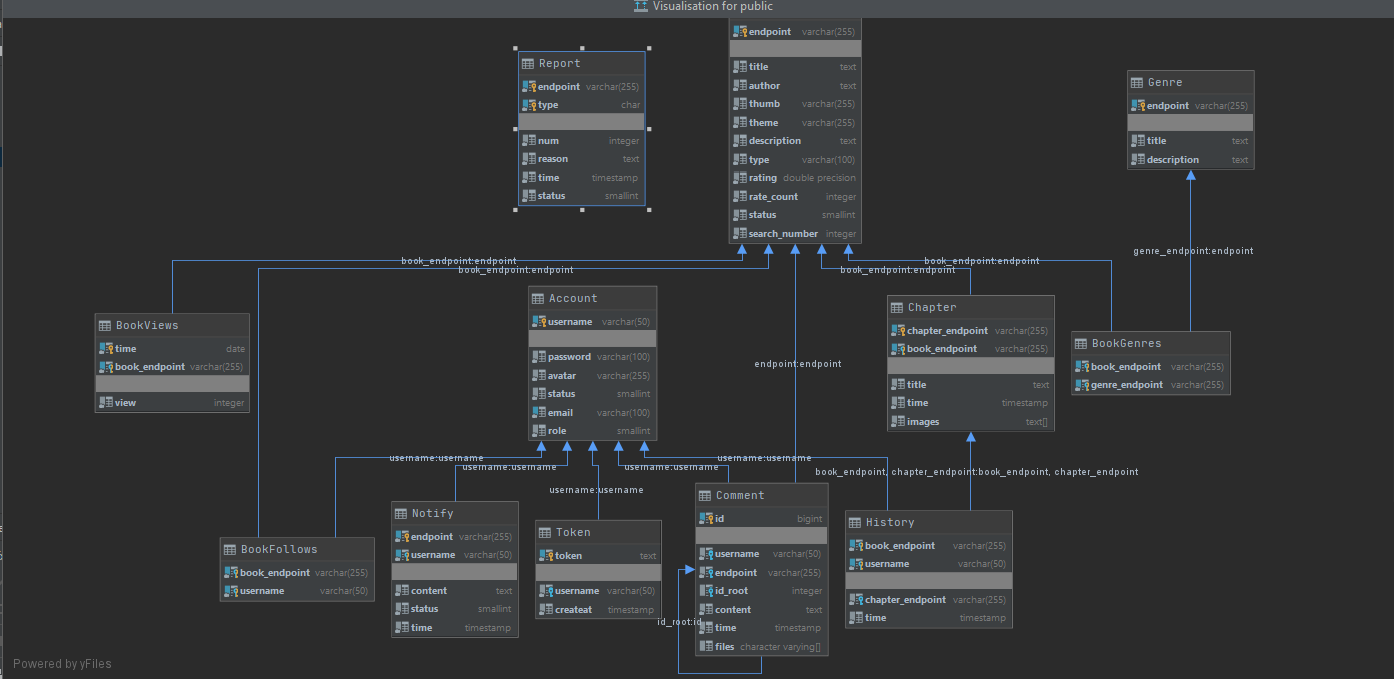
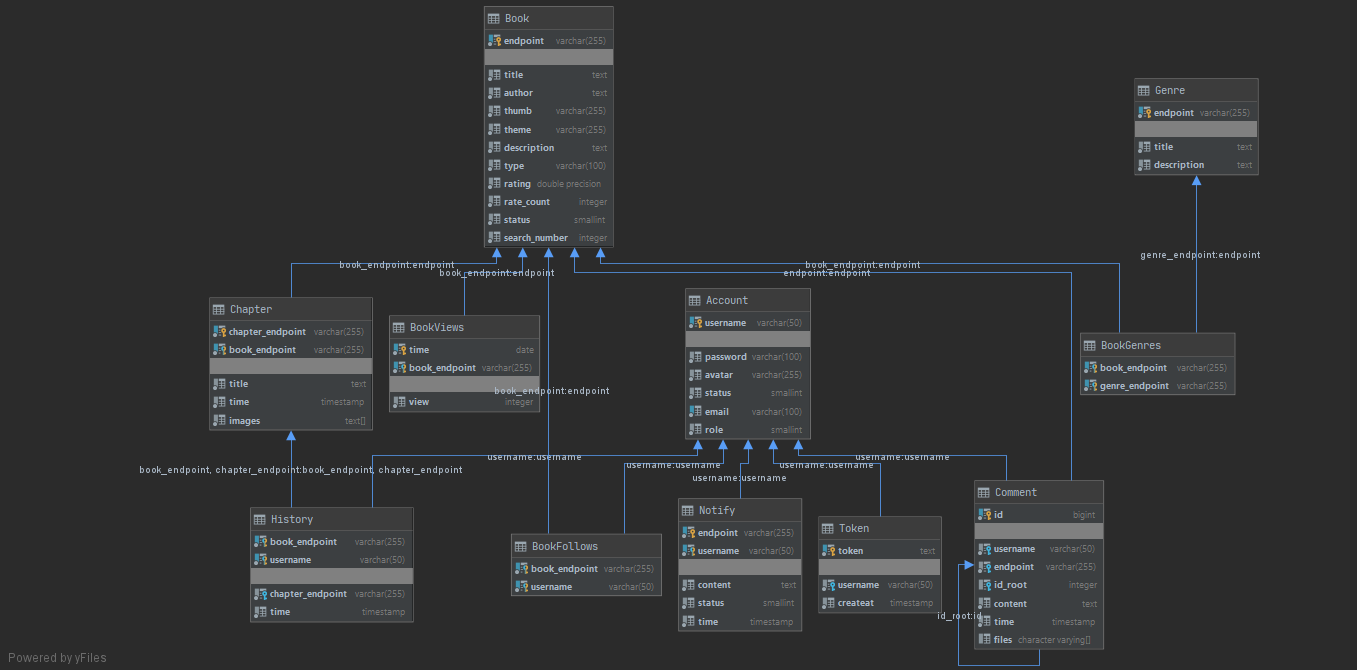
remove report :/

diff --git a/configs/messages.js b/configs/messages.js
@@ -42,19 +42,6 @@ module.exports = {
         chapter_pk: 'Chapter bị trùng',
         book_fk: 'Sách này không tồn tại'
     },
-    report: {
-        add_success: 'Thêm thành công',
-        update_success: 'Cập nhật thành công',
-        delete_success: 'Xóa thành công',
-        missing_endpoint: 'Thiếu endpoint',
-        missing_type: 'Thiếu loại report',
-        missing_reason: 'Thiếu lí do',
-        missing_status: 'Thiếu status',
-        not_found: 'Không tìm thấy report',
-        report_pk: 'Report này đã tồn tại',
-        type_constraint: 'Loại report chỉ có thể là "A": report account hoặc "C": report comment',
-        status_constraint: 'Trạng thái của report là 0: chưa xử lí hoặc 1: đã xử lí'
-    },
     notify: {
         add_success: 'Thêm thành công',
         update_success: 'Cập nhật thành công',
